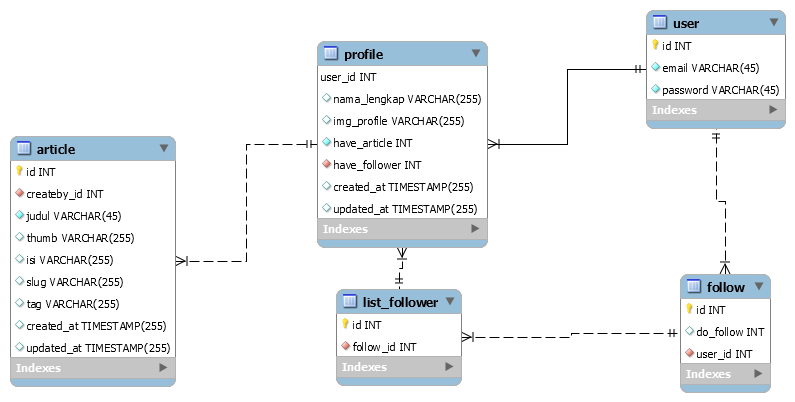
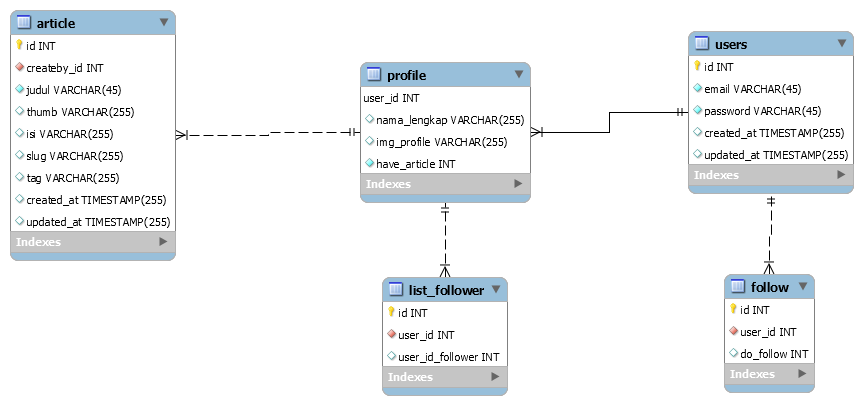
done quiz

diff --git a/database/migrations/2020_07_05_184835_add_table_listfollower.php b/database/migrations/2020_07_05_184835_add_table_listfollower.php
@@ -4,7 +4,7 @@ use Illuminate\Database\Migrations\Migration;
 use Illuminate\Database\Schema\Blueprint;
 use Illuminate\Support\Facades\Schema;
 
-class CreateUsersTable extends Migration
+class AddTableListfollower extends Migration
 {
     /**
      * Run the migrations.
@@ -13,11 +13,10 @@ class CreateUsersTable extends Migration
      */
     public function up()
     {
-        Schema::create('users', function (Blueprint $table) {
+        Schema::create('list_follower', function (Blueprint $table) {
             $table->bigIncrements('id');
-            $table->string('email')->unique();
-            $table->string('password');
-            $table->timestamps();
+            $table->integer('user_id');
+            $table->integer('user_id_follower');
         });
     }
 
@@ -28,6 +27,6 @@ class CreateUsersTable extends Migration
      */
     public function down()
     {
-        Schema::dropIfExists('users');
+        //
     }
 }

diff --git a/database/migrations/2020_07_05_184928_add_table_follow.php b/database/migrations/2020_07_05_184928_add_table_follow.php
@@ -4,7 +4,7 @@ use Illuminate\Database\Migrations\Migration;
 use Illuminate\Database\Schema\Blueprint;
 use Illuminate\Support\Facades\Schema;
 
-class CreateUsersTable extends Migration
+class AddTableFollow extends Migration
 {
     /**
      * Run the migrations.
@@ -13,11 +13,10 @@ class CreateUsersTable extends Migration
      */
     public function up()
     {
-        Schema::create('users', function (Blueprint $table) {
+        Schema::create('follow', function (Blueprint $table) {
             $table->bigIncrements('id');
-            $table->string('email')->unique();
-            $table->string('password');
-            $table->timestamps();
+            $table->integer('user_id');
+            $table->integer('do_follow')->default(1);
         });
     }
 
@@ -28,6 +27,6 @@ class CreateUsersTable extends Migration
      */
     public function down()
     {
-        Schema::dropIfExists('users');
+        //
     }
 }

diff --git a/app/Http/Controllers/ArtikelController.php b/app/Http/Controllers/ArtikelController.php
@@ -46,7 +46,6 @@ class ArtikelController extends Controller
             'slug' => Str::slug($request->judul),
             'tag' => implode(",", $tags)
         ]);
-        // dd($data);
         $data->save();
         return redirect('/artikel')->with('success', 'Artikel behasil dibuat');
     }
@@ -95,7 +94,6 @@ class ArtikelController extends Controller
                 'tag' => implode(",", $tags)
             ];
         }
-        // dd($data_edited);
         $data->update($data_edited);
 
         return redirect('/artikel')->with('success', 'Artikel berhasil diupdate');

diff --git a/database/migrations/2020_07_05_103043_add_table_profile.php b/database/migrations/2020_07_05_103043_add_table_profile.php
@@ -18,8 +18,6 @@ class AddTableProfile extends Migration
             $table->string('nama_lengkap', 255);
             $table->string('img_profile', 255);
             $table->integer('have_article')->default(0);
-            $table->integer('have_follower')->default(0);
-            $table->timestamps();
         });
     }
 
